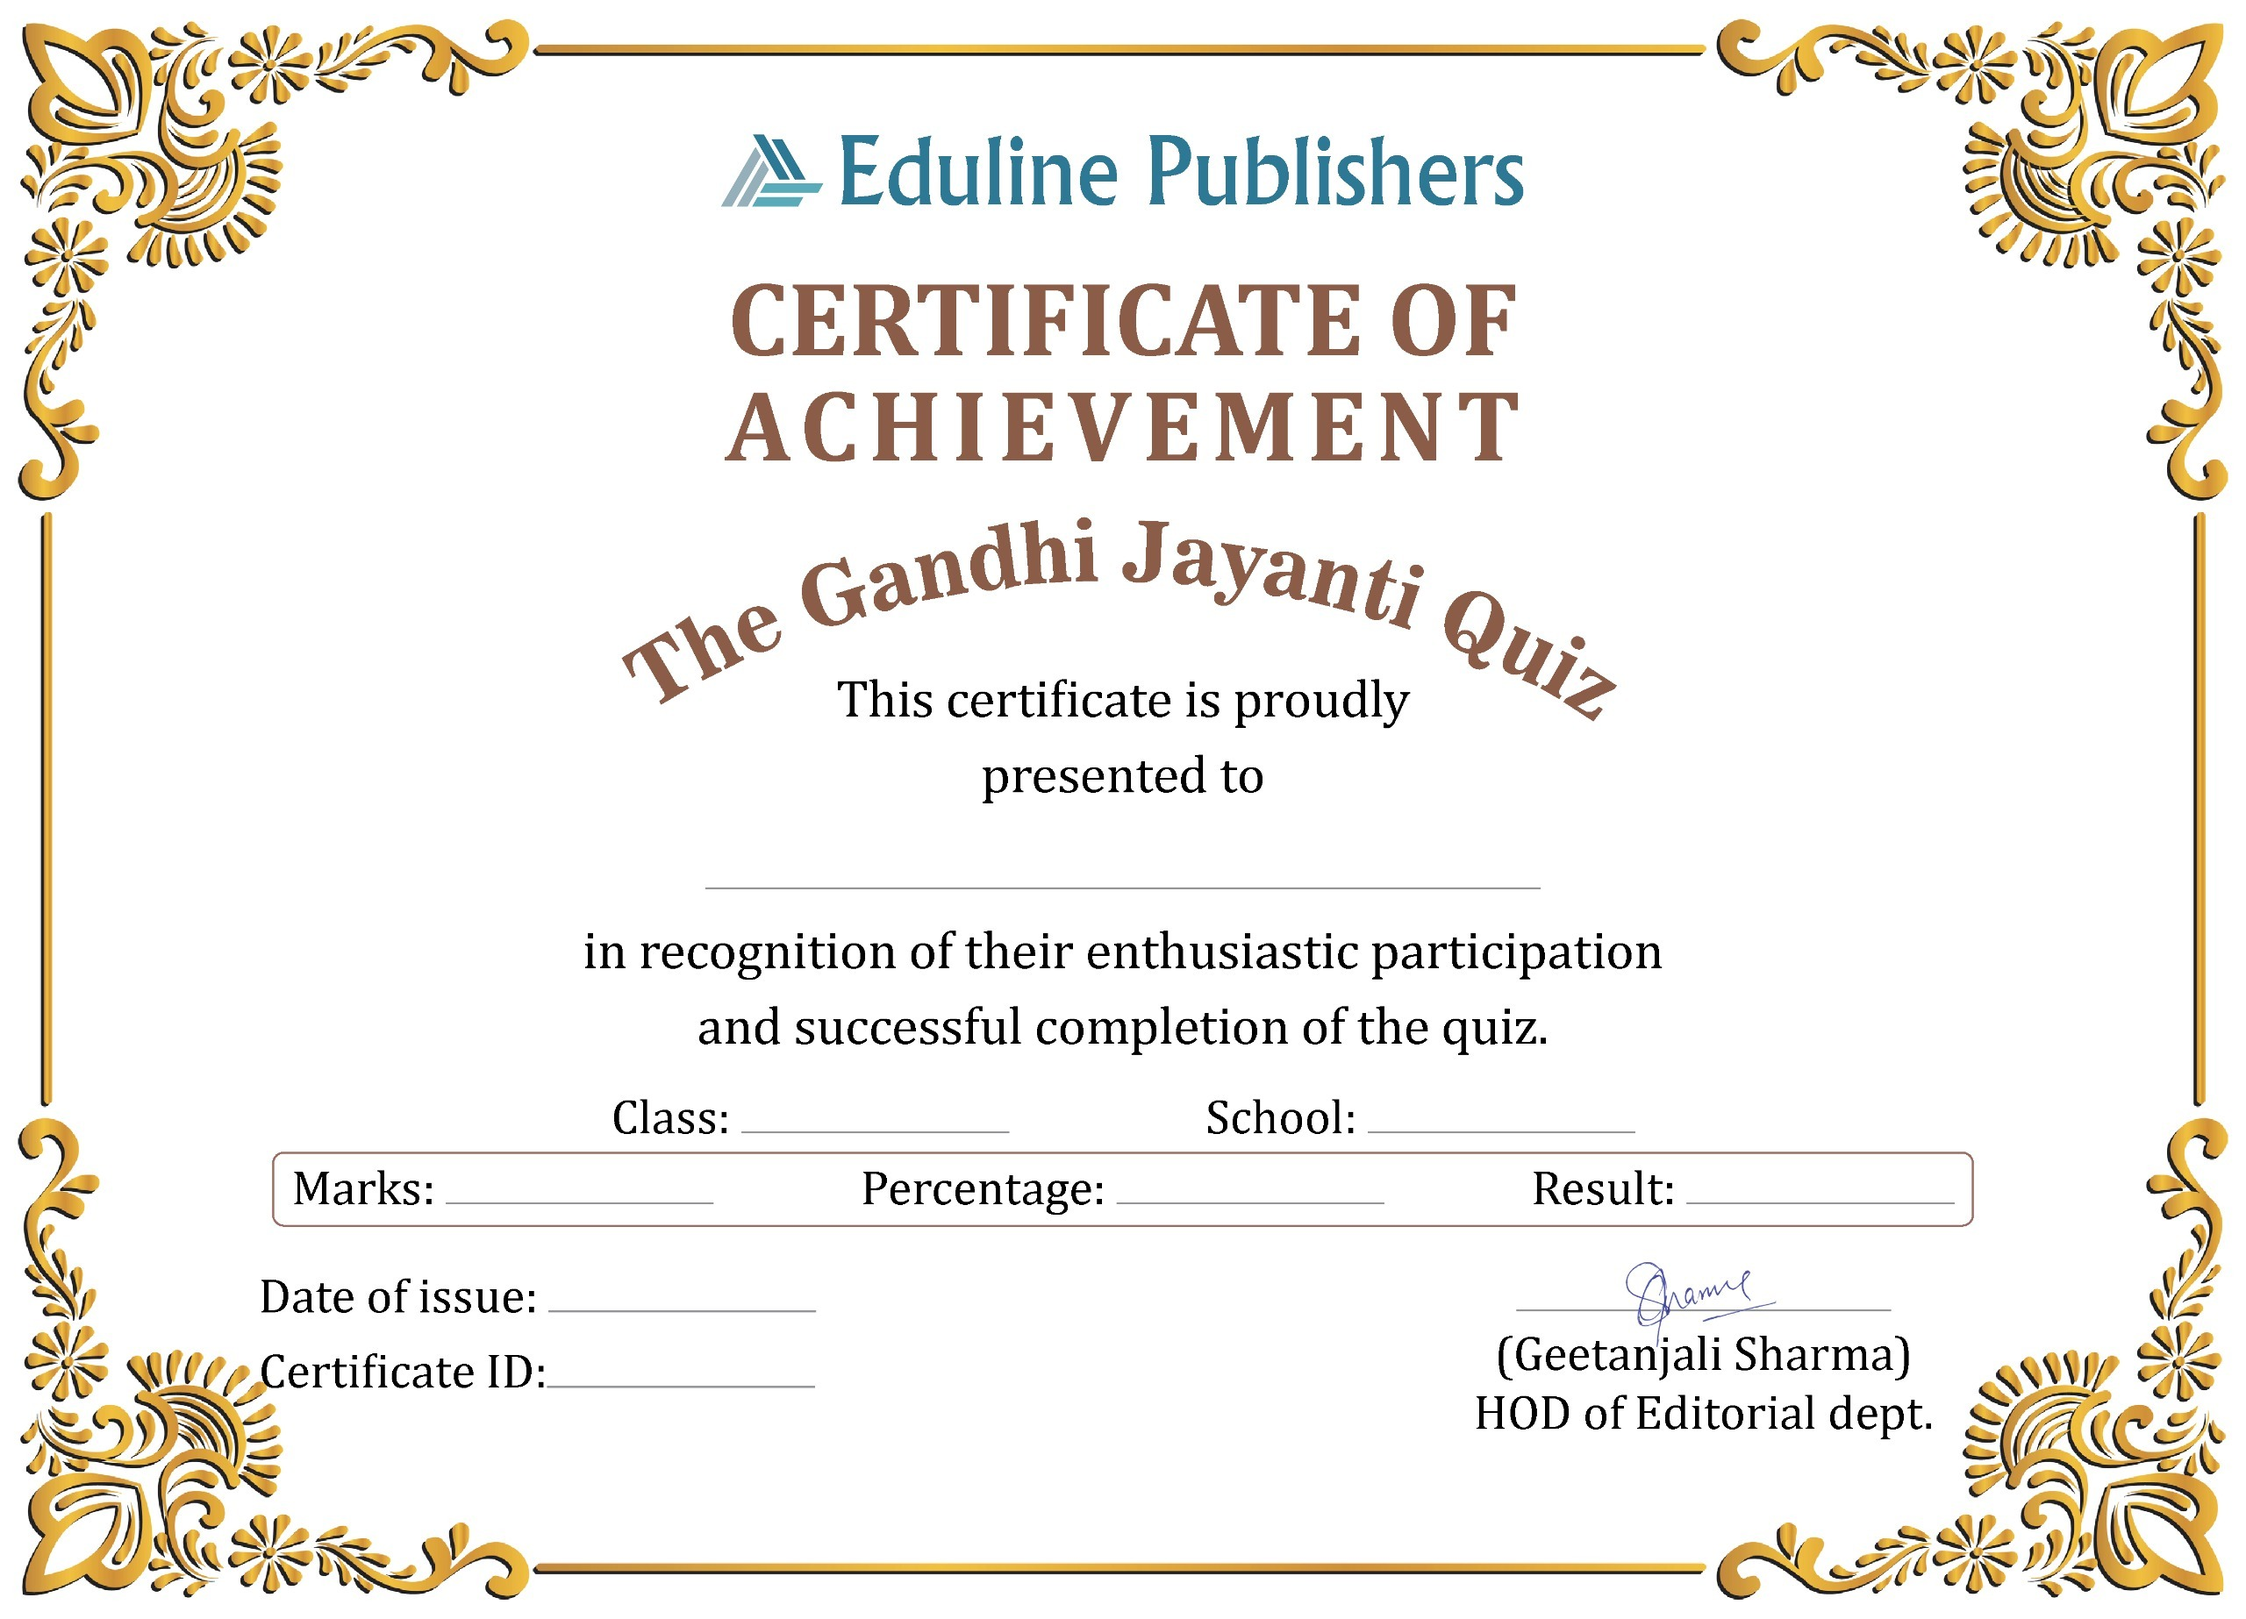
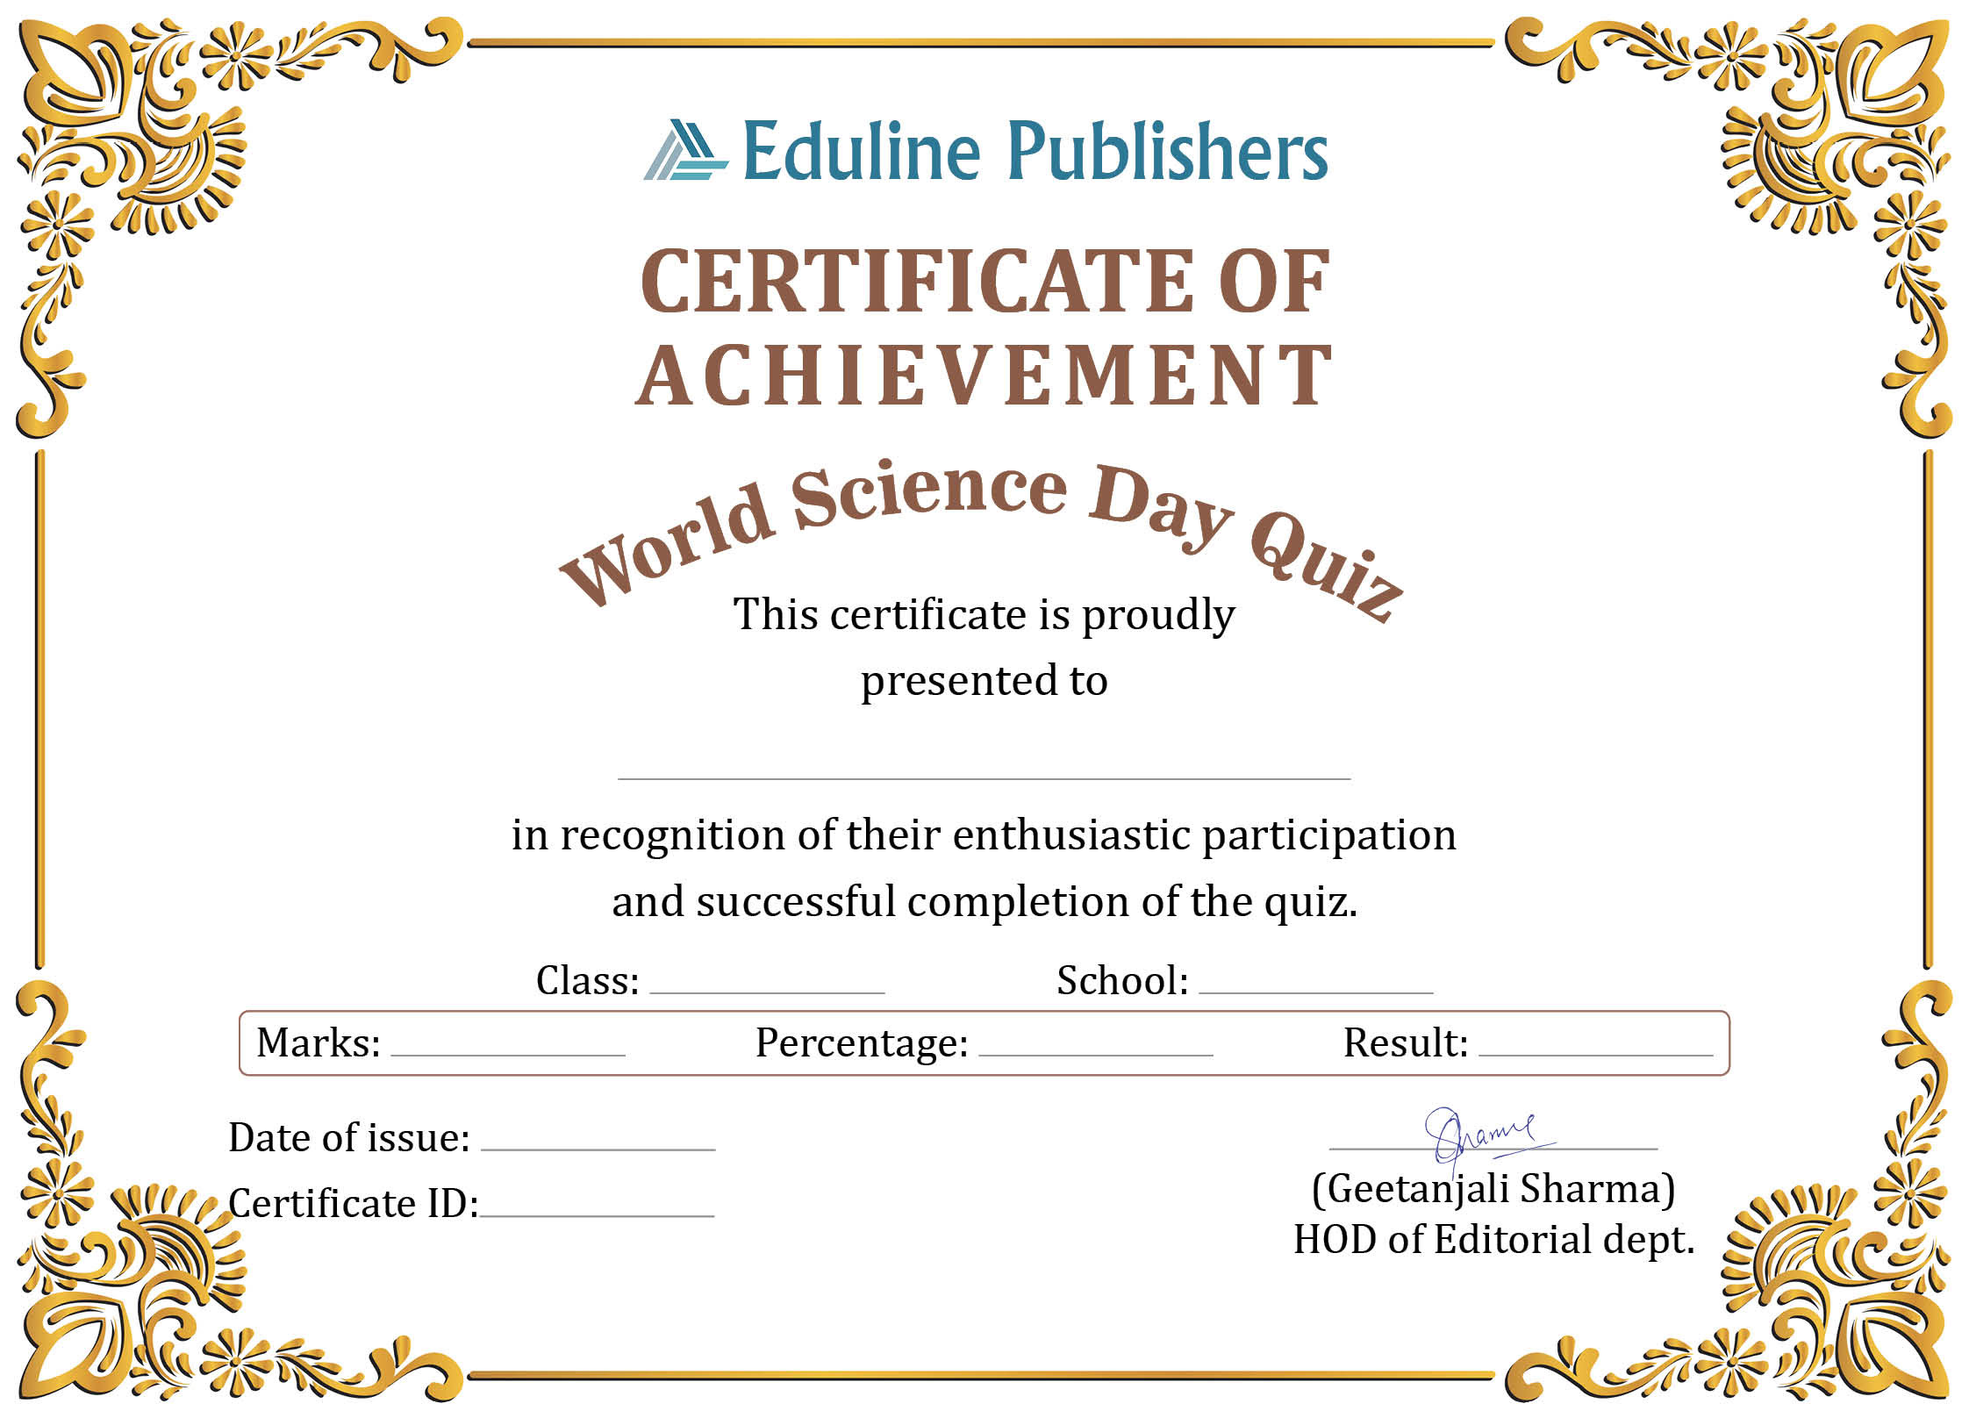
feat: update certificate frame to World Science Day Quiz across backend and frontend, and add audit cleanup script

diff --git a/backend/scripts/cleanup_audit_data.js b/backend/scripts/cleanup_audit_data.js
@@ -1,0 +1,94 @@
+const path = require('path');
+const dotenv = require('dotenv');
+dotenv.config({ path: path.join(__dirname, '..', '.env') });
+
+const mongoose = require('mongoose');
+const Student = require('../models/Student');
+const Attempt = require('../models/Attempt');
+const Quiz = require('../models/Quiz');
+const Question = require('../models/Question');
+
+async function cleanup() {
+  const uri = process.env.MONGODB_URI;
+  if (!uri) throw new Error('MONGODB_URI is not set');
+
+  console.log('Connecting to MongoDB Atlas...');
+  await mongoose.connect(uri);
+  console.log('✅ Connected to MongoDB Atlas');
+
+  // 1. Identify Test Quizzes
+  const testQuizFilter = {
+    $or: [
+      { name: /\[Audit Load Test\]/i },
+      { name: /Mathematics Quiz \(\d+\)/i },
+      { name: /Future Science Quiz/i },
+    ],
+  };
+
+  const testQuizzes = await Quiz.find(testQuizFilter).select('_id name');
+  const testQuizIds = testQuizzes.map((q) => q._id);
+  console.log(`\nFound ${testQuizzes.length} test quizzes to remove:`, testQuizzes.map((q) => q.name));
+
+  // 2. Identify Test Questions
+  let deletedQuestions = 0;
+  if (testQuizIds.length > 0) {
+    const qRes = await Question.deleteMany({ quizId: { $in: testQuizIds } });
+    deletedQuestions = qRes.deletedCount;
+    console.log(`✅ Deleted ${deletedQuestions} test questions.`);
+  }
+
+  // 3. Delete Test Quizzes
+  if (testQuizIds.length > 0) {
+    const quizDelRes = await Quiz.deleteMany({ _id: { $in: testQuizIds } });
+    console.log(`✅ Deleted ${quizDelRes.deletedCount} test quizzes.`);
+  }
+
+  // 4. Identify Test Students
+  const testStudentFilter = {
+    $or: [
+      { email: /loadtest|edulinequiz\.test|eduline\.test|audit/i },
+      { studentIdentifier: /^AUDIT-|^STU\d+|^EDU-SCHOLAR/i },
+      { schoolName: /Audit Test School/i },
+    ],
+  };
+
+  const testStudents = await Student.find(testStudentFilter).select('_id studentIdentifier email');
+  const testStudentIds = testStudents.map((s) => s._id);
+  console.log(`\nFound ${testStudents.length} audit test students to remove.`);
+
+  // 5. Delete Test Attempts
+  const testAttemptFilter = {
+    $or: [
+      { studentId: { $in: testStudentIds } },
+      { studentIdentifier: /^AUDIT-|^STU\d+|^EDU-SCHOLAR/i },
+      { schoolName: /Audit Test School/i },
+      { quizId: { $in: testQuizIds } },
+    ],
+  };
+
+  const attemptDelRes = await Attempt.deleteMany(testAttemptFilter);
+  console.log(`✅ Deleted ${attemptDelRes.deletedCount} audit test attempts.`);
+
+  // 6. Delete Test Students
+  const studentDelRes = await Student.deleteMany(testStudentFilter);
+  console.log(`✅ Deleted ${studentDelRes.deletedCount} audit test students.`);
+
+  // 7. Verify remaining clean state in DB
+  const remainingStudents = await Student.countDocuments({});
+  const remainingQuizzes = await Quiz.countDocuments({});
+  const remainingAttempts = await Attempt.countDocuments({});
+
+  console.log('\n================================================================');
+  console.log('CLEAN DATABASE STATE VERIFIED:');
+  console.log(`   Real Students : ${remainingStudents}`);
+  console.log(`   Quizzes       : ${remainingQuizzes}`);
+  console.log(`   Real Attempts : ${remainingAttempts}`);
+  console.log('================================================================');
+
+  process.exit(0);
+}
+
+cleanup().catch((err) => {
+  console.error('❌ Error during audit cleanup:', err);
+  process.exit(1);
+});
